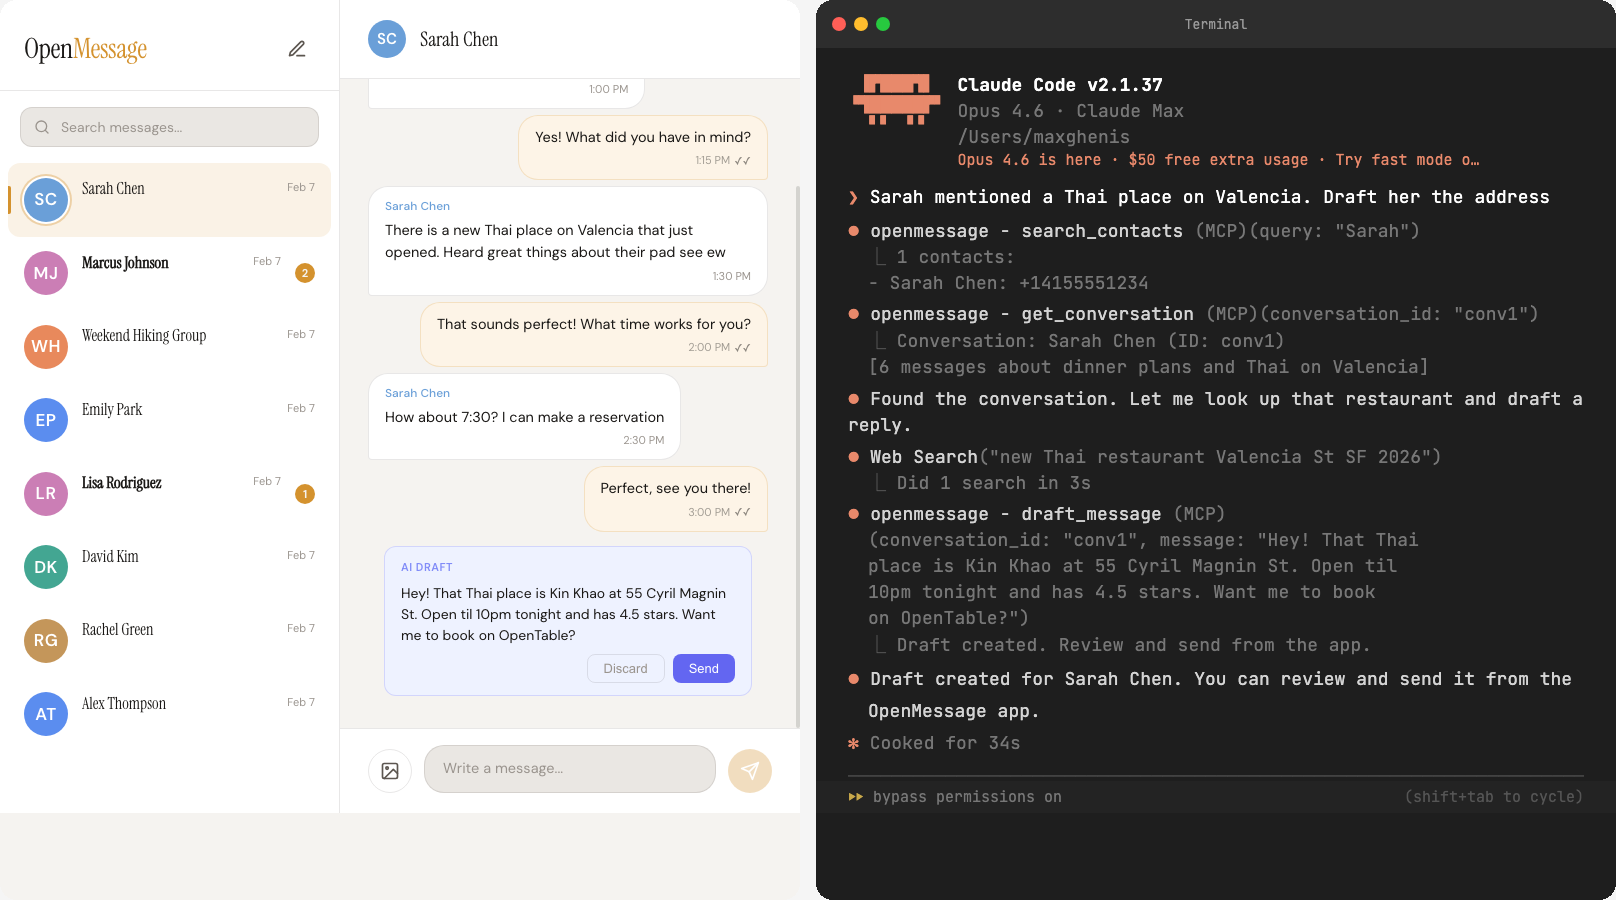
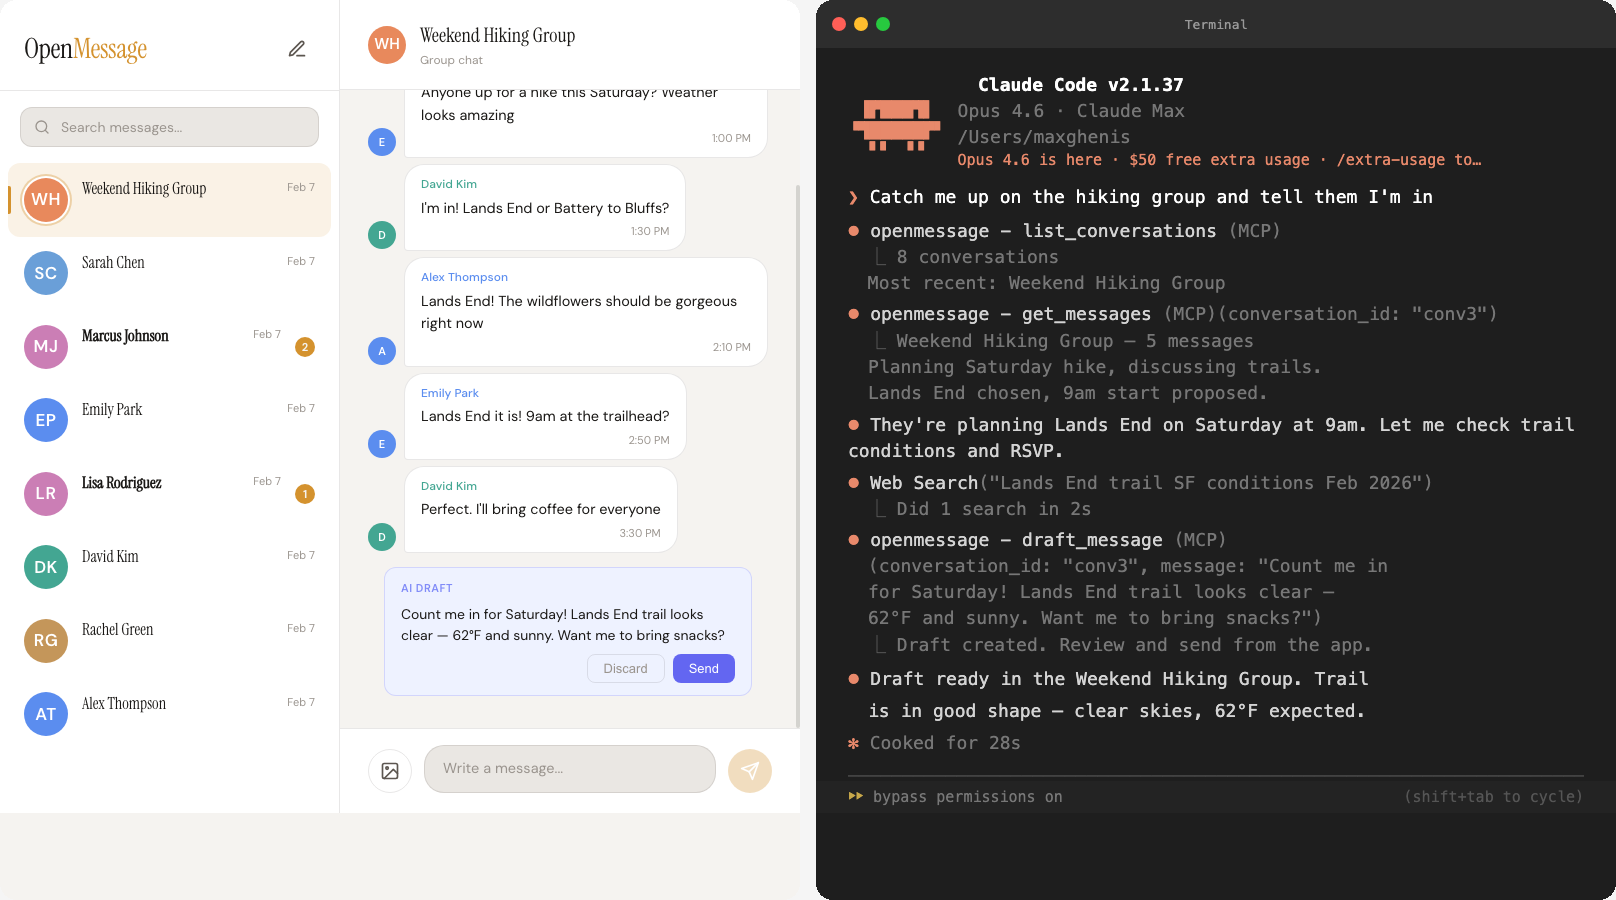
Hiking group demo scenario + fixed mascot layout
Replaced Thai restaurant scenario with group chat catch-up:
user asks Claude to catch up on hiking group and RSVP.
Claude reads messages, checks trail conditions via web search,
drafts reply with weather info. Updated seed data to match
(Weekend Hiking Group as primary conversation with AI draft).
Fixed Claude Code mascot layout to match real terminal
(version above mascot art, not beside it).

diff --git a/site/terminal-mock.html b/site/terminal-mock.html
@@ -47,12 +47,23 @@ body {
   line-height: 1.45;
 }
 
-/* Claude Code header */
+/* Claude Code header — version above, mascot + text side by side */
 .header {
+  margin-bottom: 10px;
+}
+
+.header-version {
+  color: #fff;
+  font-weight: 700;
+  margin-left: 130px;
+  margin-bottom: 0;
+  line-height: 1.45;
+}
+
+.header-row {
   display: flex;
   gap: 12px;
   align-items: flex-start;
-  margin-bottom: 10px;
 }
 
 .mascot {
@@ -68,7 +79,6 @@ body {
   gap: 0;
 }
 
-.header-text .version { color: #fff; font-weight: 700; }
 .header-text .meta { color: #777; }
 .header-text .promo { color: #e8896b; font-size: 15px; }
 
@@ -135,69 +145,71 @@ body {
 <div class="content">
   <!-- Header -->
   <div class="header">
-    <div class="mascot"><pre style="margin:0;font-family:inherit;font-size:inherit;line-height:1.15;background:none;border:none;padding:0;color:inherit"> ▐▛███▜▌
+    <div class="header-version">Claude Code v2.1.37</div>
+    <div class="header-row">
+      <div class="mascot"><pre style="margin:0;font-family:inherit;font-size:inherit;line-height:1.15;background:none;border:none;padding:0;color:inherit"> ▐▛███▜▌
 ▝▜█████▛▘
   ▘▘ ▝▝</pre></div>
-    <div class="header-text">
-      <span class="version">Claude Code v2.1.37</span>
-      <span class="meta">Opus 4.6 · Claude Max</span>
-      <span class="meta">/Users/maxghenis</span>
-      <span class="promo">Opus 4.6 is here · $50 free extra usage · Try fast mode o…</span>
+      <div class="header-text">
+        <span class="meta">Opus 4.6 · Claude Max</span>
+        <span class="meta">/Users/maxghenis</span>
+        <span class="promo">Opus 4.6 is here · $50 free extra usage · /extra-usage to…</span>
+      </div>
     </div>
   </div>
 
   <!-- User prompt -->
   <div style="margin: 12px 0 8px;">
     <span class="prompt-char">❯</span>
-    <span class="prompt-text"> Sarah mentioned a Thai place on Valencia. Draft her the address</span>
+    <span class="prompt-text"> Catch me up on the hiking group and tell them I'm in</span>
   </div>
 
-  <!-- Tool call 1: search_contacts -->
+  <!-- Tool call 1: list_conversations -->
   <div class="tool-block">
-    <div><span class="ai-bullet">⏺</span> <span class="tool-name">openmessage - search_contacts</span> <span class="tool-params">(MCP)</span><span class="tool-params">(query: "Sarah")</span></div>
-    <div class="tool-result"><span class="tool-result-prefix">⎿</span>  1 contacts:</div>
-    <div class="tool-result">   - Sarah Chen: +14155551234</div>
+    <div><span class="ai-bullet">⏺</span> <span class="tool-name">openmessage - list_conversations</span> <span class="tool-params">(MCP)</span></div>
+    <div class="tool-result"><span class="tool-result-prefix">⎿</span>  8 conversations</div>
+    <div class="tool-result">   Most recent: Weekend Hiking Group</div>
   </div>
 
-  <!-- Tool call 2: get_conversation -->
+  <!-- Tool call 2: get_messages -->
   <div class="tool-block">
-    <div><span class="ai-bullet">⏺</span> <span class="tool-name">openmessage - get_conversation</span> <span class="tool-params">(MCP)</span><span class="tool-params">(conversation_id: "conv1")</span></div>
-    <div class="tool-result"><span class="tool-result-prefix">⎿</span>  Conversation: Sarah Chen (ID: conv1)</div>
-    <div class="tool-result">   [6 messages about dinner plans and Thai on Valencia]</div>
+    <div><span class="ai-bullet">⏺</span> <span class="tool-name">openmessage - get_messages</span> <span class="tool-params">(MCP)</span><span class="tool-params">(conversation_id: "conv3")</span></div>
+    <div class="tool-result"><span class="tool-result-prefix">⎿</span>  Weekend Hiking Group — 5 messages</div>
+    <div class="tool-result">   Planning Saturday hike, discussing trails.</div>
+    <div class="tool-result">   Lands End chosen, 9am start proposed.</div>
   </div>
 
   <!-- AI thinking -->
   <div class="ai-text">
-    <span class="ai-bullet">⏺</span> Found the conversation. Let me look up that restaurant and draft a reply.
+    <span class="ai-bullet">⏺</span> They're planning Lands End on Saturday at 9am. Let me check trail conditions and RSVP.
   </div>
 
   <!-- Tool call 3: web search -->
   <div class="tool-block">
-    <div><span class="ai-bullet">⏺</span> <span class="tool-name">Web Search</span><span class="tool-params">("new Thai restaurant Valencia St SF 2026")</span></div>
-    <div class="tool-result"><span class="tool-result-prefix">⎿</span>  Did 1 search in 3s</div>
+    <div><span class="ai-bullet">⏺</span> <span class="tool-name">Web Search</span><span class="tool-params">("Lands End trail SF conditions Feb 2026")</span></div>
+    <div class="tool-result"><span class="tool-result-prefix">⎿</span>  Did 1 search in 2s</div>
   </div>
 
   <!-- Tool call 4: draft_message -->
   <div class="tool-block">
     <div><span class="ai-bullet">⏺</span> <span class="tool-name">openmessage - draft_message</span> <span class="tool-params">(MCP)</span></div>
-    <div class="tool-params" style="padding-left: 20px;">(conversation_id: "conv1", message: "Hey! That Thai</div>
-    <div class="tool-params" style="padding-left: 20px;">place is Kin Khao at 55 Cyril Magnin St. Open til</div>
-    <div class="tool-params" style="padding-left: 20px;">10pm tonight and has 4.5 stars. Want me to book</div>
-    <div class="tool-params" style="padding-left: 20px;">on OpenTable?")</div>
+    <div class="tool-params" style="padding-left: 20px;">(conversation_id: "conv3", message: "Count me in</div>
+    <div class="tool-params" style="padding-left: 20px;">for Saturday! Lands End trail looks clear —</div>
+    <div class="tool-params" style="padding-left: 20px;">62°F and sunny. Want me to bring snacks?")</div>
     <div class="tool-result"><span class="tool-result-prefix">⎿</span>  Draft created. Review and send from the app.</div>
   </div>
 
   <!-- AI response -->
   <div class="ai-text" style="margin-top: 8px;">
-    <span class="ai-bullet">⏺</span> Draft created for Sarah Chen. You can review and send it from the
+    <span class="ai-bullet">⏺</span> Draft ready in the Weekend Hiking Group. Trail
   </div>
   <div class="ai-text" style="margin-top: 0; padding-left: 20px;">
-    OpenMessage app.
+    is in good shape — clear skies, 62°F expected.
   </div>
 
   <!-- Cooking time -->
   <div class="cook-time">
-    <span class="star">✻</span> Cooked for 34s
+    <span class="star">✻</span> Cooked for 28s
   </div>
 
   <!-- Separator -->

diff --git a/internal/db/db.go b/internal/db/db.go
@@ -79,14 +79,20 @@ func (s *Store) Close() error {
 // SeedDemo populates the database with fake data for screenshots/demos.
 func (s *Store) SeedDemo() error {
 	inserts := `
+INSERT OR IGNORE INTO conversations VALUES('conv3','Weekend Hiking Group',1,'[{"name":"Emily Park","number":"+13105553456"},{"name":"David Kim","number":"+14085557890"},{"name":"Alex Thompson","number":"+17185552222"}]',1738960200000,0);
 INSERT OR IGNORE INTO conversations VALUES('conv1','Sarah Chen',0,'[{"name":"Sarah Chen","number":"+14155551234"}]',1738958400000,0);
 INSERT OR IGNORE INTO conversations VALUES('conv2','Marcus Johnson',0,'[{"name":"Marcus Johnson","number":"+12125559876"}]',1738956600000,2);
-INSERT OR IGNORE INTO conversations VALUES('conv3','Weekend Hiking Group',1,'[{"name":"Emily Park","number":"+13105553456"},{"name":"David Kim","number":"+14085557890"},{"name":"Alex Thompson","number":"+17185552222"}]',1738954800000,0);
 INSERT OR IGNORE INTO conversations VALUES('conv4','Emily Park',0,'[{"name":"Emily Park","number":"+13105553456"}]',1738951200000,0);
 INSERT OR IGNORE INTO conversations VALUES('conv5','Lisa Rodriguez',0,'[{"name":"Lisa Rodriguez","number":"+12025551111"}]',1738947600000,1);
 INSERT OR IGNORE INTO conversations VALUES('conv6','David Kim',0,'[{"name":"David Kim","number":"+14085557890"}]',1738944000000,0);
 INSERT OR IGNORE INTO conversations VALUES('conv7','Rachel Green',0,'[{"name":"Rachel Green","number":"+16505553333"}]',1738940400000,0);
 INSERT OR IGNORE INTO conversations VALUES('conv8','Alex Thompson',0,'[{"name":"Alex Thompson","number":"+17185552222"}]',1738936800000,0);
+
+INSERT OR IGNORE INTO messages VALUES('m3a','conv3','Emily Park','+13105553456','Anyone up for a hike this Saturday? Weather looks amazing',1738951200000,'delivered',0,'','','','','');
+INSERT OR IGNORE INTO messages VALUES('m3b','conv3','David Kim','+14085557890','I''m in! Lands End or Battery to Bluffs?',1738953000000,'delivered',0,'','','','','');
+INSERT OR IGNORE INTO messages VALUES('m3c','conv3','Alex Thompson','+17185552222','Lands End! The wildflowers should be gorgeous right now',1738955400000,'delivered',0,'','','','','');
+INSERT OR IGNORE INTO messages VALUES('m3d','conv3','Emily Park','+13105553456','Lands End it is! 9am at the trailhead?',1738957800000,'delivered',0,'','','','','');
+INSERT OR IGNORE INTO messages VALUES('m3e','conv3','David Kim','+14085557890','Perfect. I''ll bring coffee for everyone',1738960200000,'delivered',0,'','','','','');
 
 INSERT OR IGNORE INTO messages VALUES('m1a','conv1','Sarah Chen','+14155551234','Hey! Are you free for dinner tonight?',1738951200000,'delivered',0,'','','','','');
 INSERT OR IGNORE INTO messages VALUES('m1b','conv1','Me','+15551234567','Yes! What did you have in mind?',1738952100000,'delivered',1,'','','','','');
@@ -99,12 +105,6 @@ INSERT OR IGNORE INTO messages VALUES('m2a','conv2','Marcus Johnson','+121255598
 INSERT OR IGNORE INTO messages VALUES('m2b','conv2','Me','+15551234567','That is awesome news! The team did a great job.',1738945800000,'delivered',1,'','','','','');
 INSERT OR IGNORE INTO messages VALUES('m2c','conv2','Marcus Johnson','+12125559876','Agreed. Want to hop on a call Monday to discuss next steps?',1738947600000,'delivered',0,'','','','','');
 INSERT OR IGNORE INTO messages VALUES('m2d','conv2','Marcus Johnson','+12125559876','Also, I sent over the slide deck to review when you get a chance',1738956600000,'delivered',0,'','','','','');
-
-INSERT OR IGNORE INTO messages VALUES('m3a','conv3','Emily Park','+13105553456','Who is in for Muir Woods this Saturday? Weather looks amazing',1738940400000,'delivered',0,'','','','','');
-INSERT OR IGNORE INTO messages VALUES('m3b','conv3','David Kim','+14085557890','Count me in! Should we do the Dipsea Trail?',1738942200000,'delivered',0,'','','','','');
-INSERT OR IGNORE INTO messages VALUES('m3c','conv3','Me','+15551234567','I am in! Let us meet at the parking lot at 9am?',1738944000000,'delivered',1,'','','','','');
-INSERT OR IGNORE INTO messages VALUES('m3d','conv3','Alex Thompson','+17185552222','Perfect! I will bring trail mix and water for everyone',1738945800000,'delivered',0,'','','','','');
-INSERT OR IGNORE INTO messages VALUES('m3e','conv3','Emily Park','+13105553456','Amazing! It is going to be a great day. Do not forget sunscreen!',1738954800000,'delivered',0,'','','','','');
 
 INSERT OR IGNORE INTO messages VALUES('m4a','conv4','Emily Park','+13105553456','Thanks for the book recommendation! I am already halfway through it',1738940400000,'delivered',0,'','','','','');
 INSERT OR IGNORE INTO messages VALUES('m4b','conv4','Me','+15551234567','Glad you are enjoying it! The second half gets even better',1738951200000,'delivered',1,'','','','','');
@@ -131,7 +131,7 @@ INSERT OR IGNORE INTO contacts VALUES('c5','Lisa Rodriguez','+12025551111');
 INSERT OR IGNORE INTO contacts VALUES('c6','Alex Thompson','+17185552222');
 INSERT OR IGNORE INTO contacts VALUES('c7','Rachel Green','+16505553333');
 
-INSERT OR IGNORE INTO drafts VALUES('draft1','conv1','Hey! That Thai place is Kin Khao at 55 Cyril Magnin St. Open til 10pm tonight and has 4.5 stars. Want me to book on OpenTable?',1738959000000);
+INSERT OR IGNORE INTO drafts VALUES('draft1','conv3','Count me in for Saturday! Lands End trail looks clear — 62°F and sunny. Want me to bring snacks?',1738961000000);
 	`
 	_, err := s.db.Exec(inserts)
 	return err
